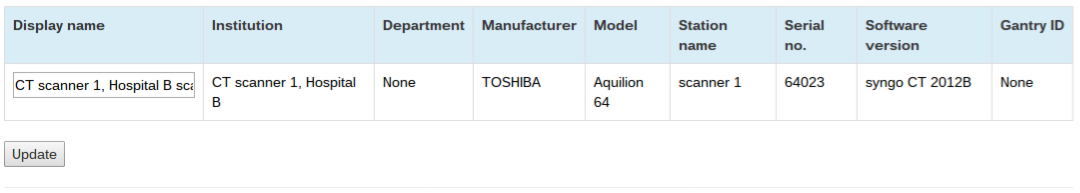
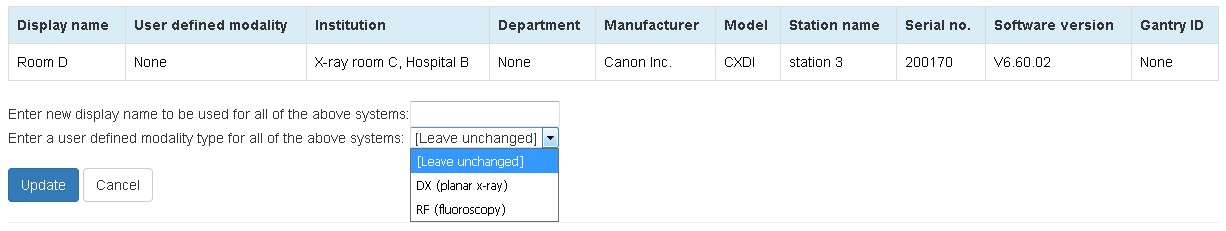
Refs #445 Make modality more flexible
Updated documentation and two images.

diff --git a/docs/i_displaynames.rst b/docs/i_displaynames.rst
@@ -1,6 +1,7 @@
-Viewing and editing individual x-ray system display names using the web interface
-*********************************************************************************
+Viewing and editing individual x-ray system display names and set user defined modality using the web interface
+***************************************************************************************************************
 *New in 0.7.0*
+*Functionality changed in 0.8.0*
 
 .. contents::
 
@@ -26,14 +27,25 @@ combination of the following eight fields:
     * department name
     * model name
     * device serial number
-    * software version 
+    * software version
     * gantry id
 
 The default text for ``display name`` is set to a combination of
 ``institution name`` and ``station name``.
 
-Viewing x-ray system display names
-==================================
+User defined modality field
+===========================
+
+Based on the information in the DICOM dose structured report OpenREM determines
+the modality type of a system. However sometimes this mechanism failes because
+vendors use templates meant for RF also for DX systems. Therefore it is possible
+from version 0.8.0 to set a modality type for each system manually. If a
+modality type is set manually this overrides the value that would be determined
+automatically.
+
+
+Viewing x-ray system display names and user defined modality
+============================================================
 
 .. figure:: img/UserOptionsMenu.png
    :align: right
@@ -48,9 +60,10 @@ at the right-hand end of the navigation bar at the top of the screen.
 
 The third option, ``View display names``, takes you to a page where you can
 view the list of x-ray systems with data in OpenREM together with their
-current display name. The x-ray systems are grouped into modalities and
-displayed in five tables: CT; mammography; DX and CR; fluoroscopy; and
-other.
+current display name and user defined modality. If the user defined modality
+is not set, the value contains ``None``. The x-ray systems are grouped
+into modalities and displayed in five tables: CT; mammography; DX and CR;
+fluoroscopy; and other.
 
 .. figure:: img/DisplayNameList.png
    :align: center
@@ -60,8 +73,8 @@ other.
 
    Example list of display names
 
-Changing x-ray system display names
-===================================
+Changing x-ray system display names and user defined modality
+=============================================================
 
 .. figure:: img/AdminMenu.png
    :align: right
@@ -71,14 +84,15 @@ Changing x-ray system display names
 
    The ``Config`` menu (admin)
 
-If you wish to make changes to a display name then you must log in as a user
-that is in the ``admingroup``. You will then be able to use the
-``View and edit display names`` item under the ``Config`` menu:
+If you wish to make changes to a display name or to the user defined
+modality then you must log in as a user that is in the ``admingroup``. You will
+then be able to use the ``View and edit display names`` item under the ``Config``
+menu:
 
 This will take you to a page where you can view the list of x-ray systems with
-data in OpenREM. If you wish to change a display name then click on the
-corresponding row. The resulting page will allow you to edit the display name.
-Click on the ``Update`` button to confirm your changes:
+data in OpenREM. If you wish to change a display name or the user defined modality
+then click on the corresponding row. The resulting page will allow you to
+edit these parameters. Click on the ``Update`` button to confirm your changes:
 
 .. figure:: img/UpdateDisplayName.png
    :align: center
@@ -86,10 +100,14 @@ Click on the ``Update`` button to confirm your changes:
    :width: 1080px
    :height: 193px
 
-   Example of the page for updating a display name
+   Example of the page for updating a display name and user defined modality
 
-You can set multiple rows to the same display name. You may wish to do this if
+You change multiple rows at once. For display names you may wish to do this if
 a system has a software upgrade, for example, as this will generate a new
 default display name for studies carried out after the software upgrade has
 taken place. The studies from these will be grouped together as a single entry
 on the OpenREM homepage and individual modality pages.
+
+If you update the user defined modality, the modality type for already imported
+studies will also be set to the user defined modality type. Only changes
+from modality DX (planar X-ray) to RF (fluoroscopy) and vice versa are possible.
